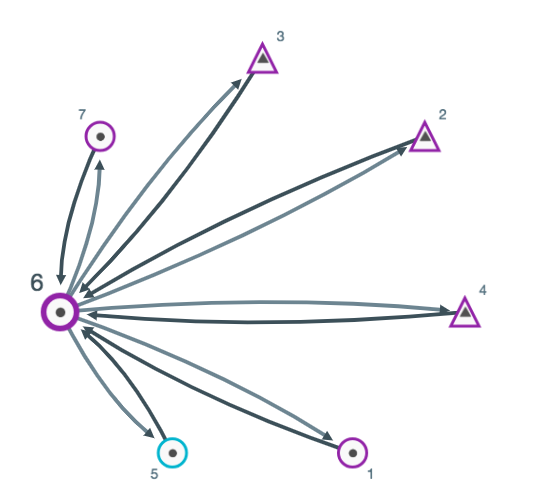
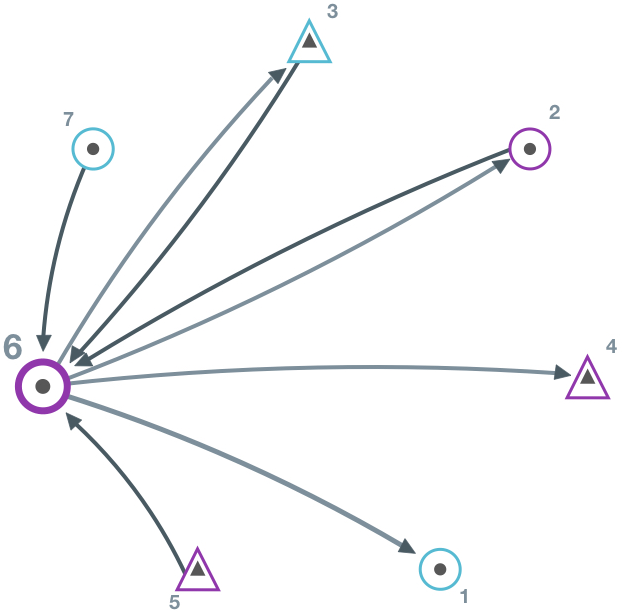
Update

Changed region(s): [[0.0, 0.0, 1.0, 1.0], [0.9688, 0.5411, 1.0, 0.5711]]

diff --git a/inst_fixed_es/templates/inst_fixed_es/PointsInst.html b/inst_fixed_es/templates/inst_fixed_es/PointsInst.html
@@ -89,18 +89,20 @@
     <div class="row">
         <div class="col-sm-8 border rounded" id="pale">
             <br>
-            <h5>Ejemplo 1: Usted es el Jugador 6, su grupo es <b>&#9679 "{{ circles_label }}"</b> y usted eligió <button class="btn buttonup btn-sm" disabled>violeta</button></h5>
+            <h5>Ejemplo 1: El jugador 6 del grupo es <b>&#9679 "{{ circles_label }}"</b> eligió <button class="btn buttonup btn-sm" disabled>violeta</button></h5>
             <p>
-            <b>1. Ganancias:</b> Usted tiene 6 coordinaciones (con los jugadores 1, 2, 3, 4, 7 y con usted). Sus 6
-                coordinaciones se multiplican por <b>{{ Constants.liked_gain }}</b> (porque su grupo es &#9679 "{{ circles_label }}"
-                y usted eligió <button class="btn buttonup btn-sm" disabled>violeta</button>). Usted no se coordinó con
-                el jugador 5, por lo que usted recibirá 0 {{ Constants.exp_currency }} de esta conexión activa.
-                Así que usted gana <b>36 {{ Constants.exp_currency }}.</b>
+                <b>1. Ganancias:</b> El jugador formó <b>dos</b> conexiones activas (con los jugadores 2 y 3) y tiene <b>dos</b> coordinaciones
+                (con el jugador 2 y con sí mismo). Las dos coordinaciones se multiplican por <b>{{ Constants.liked_gain }}</b>
+                (porque es del grupo &#9679 "{{ circles_label }}" y eligió <button class="btn buttonup btn-sm" disabled>violeta</button>).
+                <br>
+                El jugador 6 no se coordinó con el jugador 3, por lo que no gana {{ Constants.exp_currency }} con esa
+                conexión activa. El jugador 6 se coordinó con los jugadores 4 y 5, pero no formó conexiones activas con ninguno
+                de ellos, así que puede ganar puntos con ellos. Las ganancias del jugador 6 son <b>12 {{ Constants.exp_currency }}.</b>
             <br><br>
-            <b>2. Costos:</b> Usted propuso 6 conexiones (a los jugadores 1, 2, 3, 4, 5 y 7), cada una le cuesta {{ Constants.link_cost }}
-            {{ Constants.exp_currency }}, así que usted paga <b>12 {{ Constants.exp_currency }}</b>.
+                <b>2. Costos:</b> El jugador 6 propuso <b>cuatro</b> conexiones (a los jugadores 1, 2, 3 y 4), cada una le cuesta {{ Constants.link_cost }}
+            {{ Constants.exp_currency }}, así que él paga <b>8 {{ Constants.exp_currency }}</b>.
             <br><br>
-            <b>3. Puntos Totales:</b> Usted recibe 36 en ganancias menos 12 de costos: 36 - 12 = <b>24 {{ Constants.exp_currency }}</b> en esta ronda.
+            <b>3. Puntos Totales:</b> El jugador 6 recibe 12 en ganancias menos 8 de costos: 12 - 8 = <b>4 {{ Constants.exp_currency }}</b> en esta ronda.
             </p>
         </div>
         <div class="col-sm-4 border rounded" id="network">
@@ -110,16 +112,20 @@
     <div class="row">
         <div class="col-sm-8 border rounded" id="pale">
             <br>
-            <h5>Ejemplo 2: Usted es el Jugador 1, su grupo es <b>&#9650 "{{ triangles_label }}"</b> y usted eligió <button class="btn buttondown btn-sm" disabled>celeste</button></h5>
+            <h5>Ejemplo 2: El jugador 6 del grupo es <b>&#9679 "{{ circles_label }}"</b> eligió <button class="btn buttondown btn-sm" disabled>celeste</button></h5>
             <p>
-            <b>1. Ganancias:</b> Usted tiene 6 coordinaciones (con 5 de sus conexiones activas y con usted mismo). Sus 6
-                coordinaciones se multiplican por <b>{{ Constants.liked_gain }}</b> (porque su grupo es &#9650 "{{ triangles_label }}" y usted eligió
-                <button class="btn buttondown btn-sm" disabled>celeste</button>). Usted no se coordinó con el jugador 7, por lo que usted recibirá
-                0 {{ Constants.exp_currency }} de esta conexión activa. Así que usted gana <b>36 {{ Constants.exp_currency }}.</b>
+                <b>1. Ganancias:</b> El jugador formó <b>tres</b> conexiones activas (con los jugadores 1, 2 y 3) y tiene <b>dos</b> coordinaciones
+                (con el jugador 1 y con sí mismo). Las dos coordinaciones se multiplican por <b>{{ Constants.disliked_gain }}</b>
+                (porque es del grupo &#9679 "{{ circles_label }}" y eligió <button class="btn buttondown btn-sm" disabled>celeste</button>).
+                <br>
+                El jugador 6 no se coordinó con los jugadores 2 y 5, por lo que no gana {{ Constants.exp_currency }} con esas
+                conexiones activas. El jugador 6 se coordinó con los jugadores 3 y 7, pero no formó conexiones activas con ninguno
+                de ellos, así que puede ganar puntos con ellos. Las ganancias del jugador 6 son <b>8 {{ Constants.exp_currency }}.</b>
             <br><br>
-            <b>2. Costos:</b> Usted propuso 6 conexiones, así que usted paga 6 x 2 = <b>12 {{ Constants.exp_currency }}</b>.
+                <b>2. Costos:</b> El jugador 6 propuso <b>cinco</b> conexiones (a los jugadores 1, 2, 3, 4 y 5), cada una le cuesta {{ Constants.link_cost }}
+            {{ Constants.exp_currency }}, así que él paga <b>10 {{ Constants.exp_currency }}</b>.
             <br><br>
-            <b>3. Puntos Totales:</b> Usted recibe 36 en ganancias menos 12 de costos: 36 - 12 = <b>24 {{ Constants.exp_currency }}</b> en esta ronda.
+            <b>3. Puntos Totales:</b> El jugador 6 recibe 8 en ganancias menos 10 de costos: 8 - 10 = <b>-2 {{ Constants.exp_currency }}</b> en esta ronda.
             </p>
         </div>
         <div class="col-sm-4 border rounded" id="network">

diff --git a/settings.py b/settings.py
@@ -192,12 +192,12 @@ SESSION_CONFIGS = [
     #     'app_sequence': ['name_es'],
     #     # 'use_browser_bots': True
     # },
-    # {
-    #     'name': 'inst_fixed_es',
-    #     'display_name': "inst_fixed_es",
-    #     'num_demo_participants': 1,
-    #     'app_sequence': ['inst_fixed_es'],
-    # },
+    {
+        'name': 'inst_fixed_es',
+        'display_name': "inst_fixed_es",
+        'num_demo_participants': 1,
+        'app_sequence': ['name_es','inst_fixed_es'],
+    },
     # {
     #     'name': 'fixed_es',
     #     'display_name': "fixed_es",

diff --git a/inst_fixed_es/models.py b/inst_fixed_es/models.py
@@ -15,7 +15,7 @@ class Constants(BaseConstants):
     #------------------------------------------
     name_in_url = 'inst_fixed_en'
     names = ['1','2','3','4','5','6','7']
-    players_per_group = len(names)
+    players_per_group = None #len(names)
     instructions_template = 'inst_fixed_es/Instructions.html'
     periods = 1
     num_rounds = periods

diff --git a/name_es/models.py b/name_es/models.py
@@ -15,7 +15,7 @@ class Constants(BaseConstants):
     #------------------------------------------
     name_in_url = 'name_es'
     names = ['1','2','3','4','5','6','7']
-    players_per_group = len(names)
+    players_per_group = None #len(names)
     periods = 1
     num_rounds = periods
     #------------------------------------------
